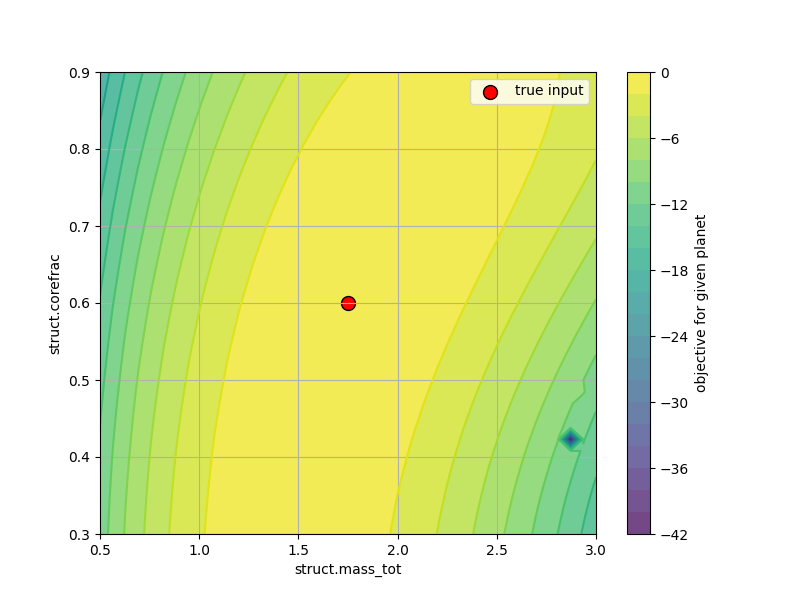
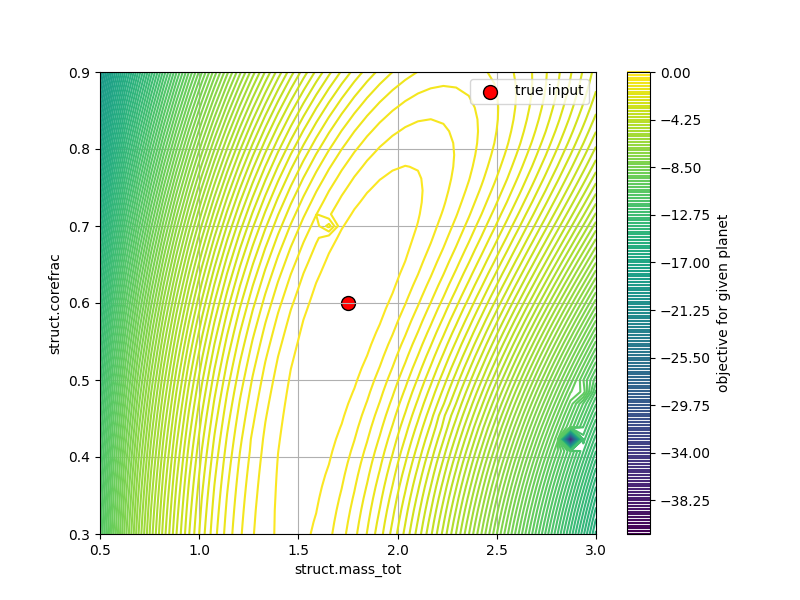
cleaned up objective.png

diff --git a/play_dummy/BO_obj_contour.py b/play_dummy/BO_obj_contour.py
@@ -9,7 +9,7 @@ import matplotlib.pyplot as plt
 from sklearn.preprocessing import StandardScaler
 
 # this will take a while, it runs n**2 simulations (batched, but still)
-
+REUSE = True
 
 par = {"struct.mass_tot": [0.5, 3.0],
               "struct.corefrac": [0.3, 0.9]
@@ -56,18 +56,19 @@ if __name__ == "__main__":
 
     grid_points = np.stack([X1.ravel(), X2.ravel()], axis=1)
 
+    if not REUSE:
+        Z, Sims = J(grid_points, obs, ks, observables, out_scaler, in_normalized=False)
+        Z = Z.reshape(X1.shape)
+        np.save("play_dummy/synth_data/grided_objective.npy", Z)
+        np.save("play_dummy/synth_data/grided_sims.npy", Sims)
 
-    Z, Sims = J(grid_points, obs, ks, observables, out_scaler, in_normalized=False)
-    Z = Z.reshape(X1.shape)
-    np.save("play_dummy/synth_data/grided_objective.npy", Z)
-    np.save("play_dummy/synth_data/grided_sims.npy", Sims)
-
-    # Z = np.load("play_dummy/synth_data/grided_output.npy")
+    else:
+        Z = np.load("play_dummy/synth_data/grided_objective.npy")
 
 
     plt.figure(figsize=(8, 6))
-    contour = plt.contour(X1, X2, Z, levels=20, cmap="viridis")  # Contour lines
-    plt.contourf(X1, X2, Z, levels=20, cmap="viridis", alpha=0.75)  # Filled contours
+    plt.contour(X1, X2, Z, levels=200, cmap="viridis")  # Contour lines
+   # plt.contourf(X1, X2, Z, levels=200, cmap="plasma", alpha=0.75)  # Filled contours
     plt.colorbar(label="objective for given planet")  # Add colorbar
     plt.xlabel("struct.mass_tot")
     plt.ylabel("struct.corefrac")
